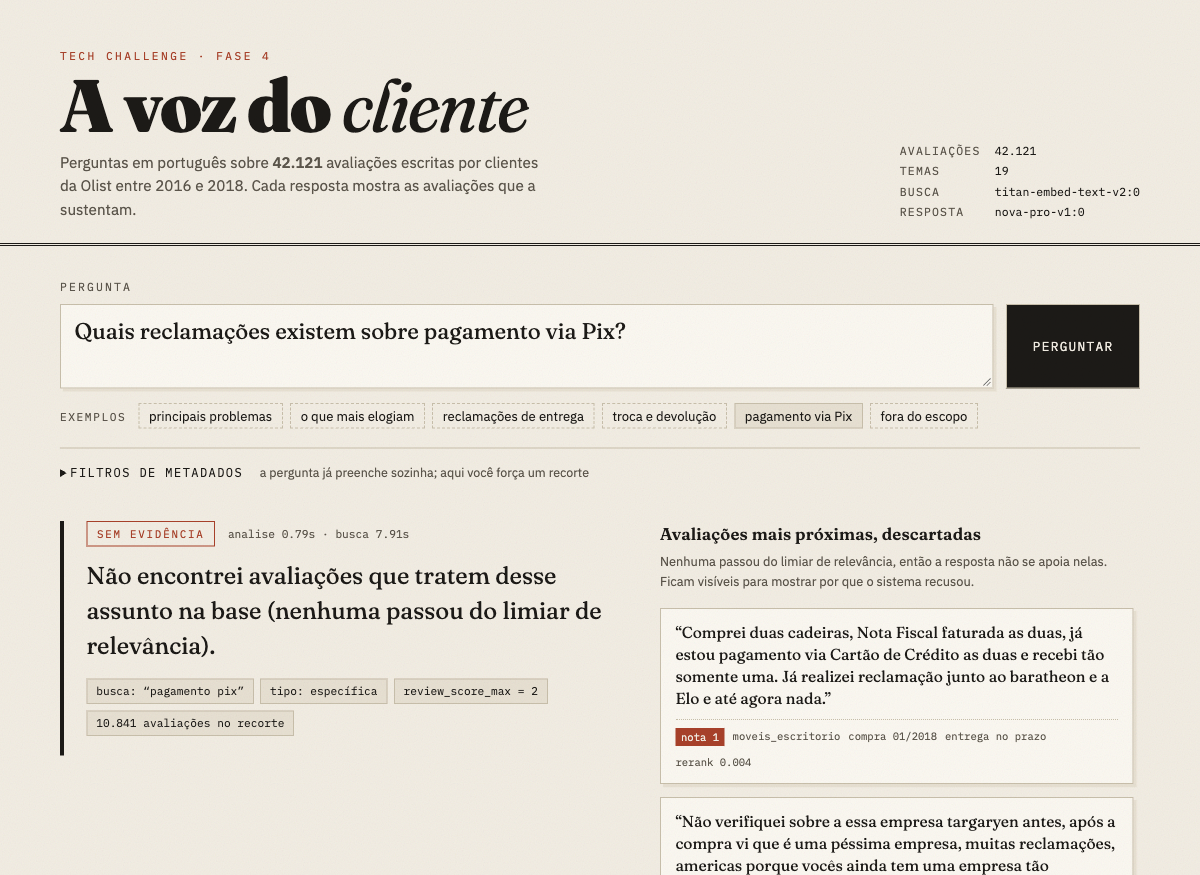
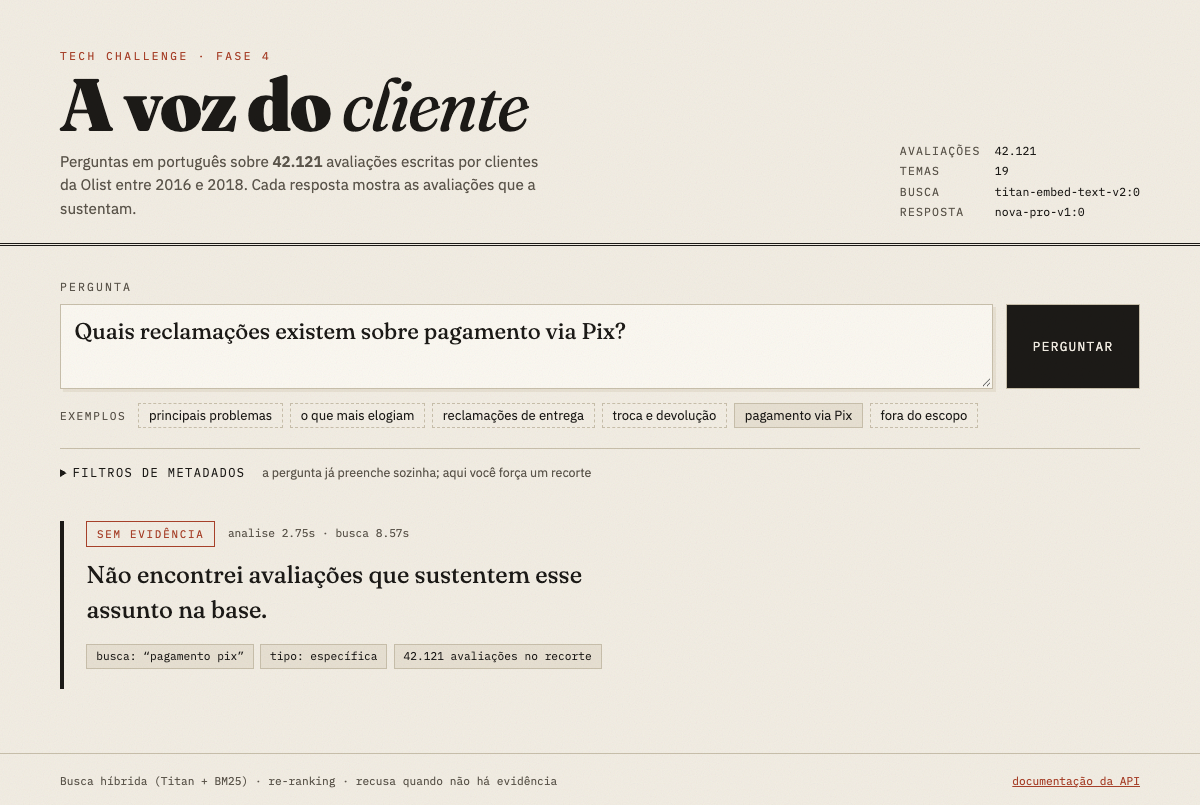
docs: métricas de 17/11 e print da recusa alinhado ao comportamento atual
- tabela de recuperação e tabela de filtros com a execução do pool completo
- o print da recusa mostrava avaliações descartadas, comportamento removido no portão lexical da F6

diff --git a/README.md b/README.md
@@ -277,11 +277,11 @@ O sistema tem quatro formas de recusar, em vez de inventar:
 | **sem evidência** | zero menções explícitas, ou nenhum apoio semântico suficiente | "reclamações sobre pagamento via Pix" (o Pix é de 2020; a base termina em 2018) |
 | **evidência insuficiente** | 1–3 menções, comparação entre recortes, assunto não modelado ou síntese sem evidência citável | "o que os clientes acham dos drones?" (3 avaliações citam drone) |
 
-![Recusa com as avaliações próximas marcadas como descartadas](docs/imagens/demo_recusa.png)
+![Recusa por falta de evidência: sem apoio na base, o sistema não devolve avaliação nenhuma](docs/imagens/demo_recusa.png)
 
 **O limiar foi calibrado, não escolhido a dedo.** Um conjunto separado (`eval/calibracao.jsonl`), com 20 perguntas que têm resposta na base e 20 que não têm, sem repetir as 44 perguntas da suíte de regressão, produziu a curva em `docs/imagens/curva_limiar.png`. O ponto escolhido (**0,39** na nota do re-ranker) fica no centro do platô de melhor F1: **F1 da recusa 0,95**, recall da recusa 1,00 e 10% de falsa recusa. Ele é usado somente como backstop semântico no **top-1 da pergunta**; nunca serve para contar quantos documentos tratam do assunto. Trocar o re-ranker obriga a recalibrar, porque a escala do score é outra.
 
-Um detalhe que a avaliação revelou: **ordenar e decidir são tarefas diferentes**. O ranking fica melhor usando a pergunta original (precisão@8 de 0,951 contra 0,853), mas a decisão de ter ou não evidência fica melhor comparando as avaliações com a **busca reescrita**, que contém só o assunto. O pipeline usa cada uma onde é melhor.
+Um detalhe que a avaliação revelou: **ordenar e decidir são tarefas diferentes**. O ranking fica melhor usando a pergunta original (precisão@8 de 0,951 contra 0,896), mas a decisão de ter ou não evidência fica melhor comparando as avaliações com a **busca reescrita**, que contém só o assunto. O pipeline usa cada uma onde é melhor.
 
 ## 8. Metadados: o desafio adicional
 
@@ -289,12 +289,12 @@ Os filtros cobrem os cinco grupos pedidos: **nota**, **período da compra**, **i
 
 **Por que eles melhoram a recuperação.** Cada pergunta com recorte foi executada com e sem o filtro (`src/eval/eval_filtros.py`):
 
-| | Evidências dentro do recorte pedido |
-|---|---|
-| **com filtro** | **100%** |
-| sem filtro | 16,7% |
+| | Evidências dentro do recorte pedido | Precisão@8 de relevância |
+|---|---|---|
+| **com filtro** | **100%** | **0,958** |
+| sem filtro | 16,7% | 0,562 |
 
-Em três das seis perguntas, **nenhuma** das 8 avaliações devolvidas sem filtro pertencia ao recorte: a busca encontrava reclamações parecidas, mas de outra categoria, nota ou faixa de valor. Uma resposta montada com elas falaria de outro grupo de clientes. A precisão de relevância com filtro é de 0,958 no conjunto de rótulos de relevância versionado.
+Em três das seis perguntas, **nenhuma** das 8 avaliações devolvidas sem filtro pertencia ao recorte: a busca encontrava reclamações parecidas, mas de outra categoria, nota ou faixa de valor. Uma resposta montada com elas falaria de outro grupo de clientes. Com o pool de relevância inteiramente rotulado, as 8 evidências de cada pergunta têm rótulo nos dois braços, e a precisão cai de **0,958** para **0,562** quando o filtro é desligado.
 
 **Dois achados do cruzamento entre texto e metadados** (`notebooks/03_metadados.ipynb`):
 
@@ -305,19 +305,21 @@ Em três das seis perguntas, **nenhuma** das 8 avaliações devolvidas sem filtr
 
 ### 9.1 Recuperação
 
-Pool de 1.117 pares pergunta × avaliação (`eval/julgamentos.csv`), montado com o top-20 de cada recuperador. Há **1.077 pares rotulados** e **40 pendentes**; as métricas ignoram os vazios. O recall é relativo a esse conjunto: uma avaliação relevante que nenhum recuperador encontrou não entra na conta.
+Pool de 1.117 pares pergunta × avaliação (`eval/julgamentos.csv`), montado com o top-20 de cada recuperador. **Os 1.117 pares estão rotulados** (869 relevantes, 248 não), todos revisados por mim. O recall é relativo a esse conjunto: uma avaliação relevante que nenhum recuperador encontrou não entra na conta.
 
 | Configuração | Recall@10 | RecallN@8 | MRR | Precisão@8 | s/pergunta |
 |---|---|---|---|---|---|
-| BM25 | 0,142 | 0,681 | 0,895 | 0,739 | 0,03 |
-| Denso (Titan) | 0,207 | 0,938 | 0,972 | 0,944 | 0,37 |
-| Denso (modelo local) | 0,164 | 0,764 | 0,835 | 0,764 | 0,05 |
-| Híbrida (Titan + BM25) | 0,193 | 0,910 | **1,000** | 0,910 | 0,34 |
-| **Híbrida + re-ranking** | **0,208** | **0,944** | 0,944 | **0,951** | 4,35 |
+| BM25 | 0,138 | 0,681 | 0,895 | 0,739 | 0,02 |
+| Denso (Titan) | 0,201 | 0,938 | 0,972 | 0,944 | 0,35 |
+| Denso (modelo local) | 0,159 | 0,764 | 0,835 | 0,764 | 0,05 |
+| Híbrida (Titan + BM25) | 0,188 | 0,910 | **1,000** | 0,910 | 0,32 |
+| **Híbrida + re-ranking** | **0,203** | **0,944** | 0,944 | **0,951** | 1,60 |
+
+Execução de **17/11/2026** (`eval/results/2026-11-17_recuperacao.json`), com o pool inteiramente rotulado. A coluna de tempo depende da máquina e do cache do re-ranker; serve para comparar as configurações entre si, não como medida absoluta.
 
 `RecallN@8` é o recall com teto em `min(k, relevantes)`: várias perguntas têm 40 ou mais avaliações relevantes, e nenhum top-8 chegaria a 20% de recall comum, mesmo perfeito.
 
-O **Titan ganhou do modelo local** em todas as métricas, o que justificou usá-lo como embedding principal. O re-ranking entrega a melhor precisão, ao custo de 4 segundos por pergunta.
+O **Titan ganhou do modelo local** em todas as métricas, o que justificou usá-lo como embedding principal. O re-ranking entrega a melhor precisão, ao custo de ser uma ordem de grandeza mais lento que a busca sozinha.
 
 ### 9.2 Decisão de responder ou recusar
 

diff --git a/docs/dicionario_dados.md b/docs/dicionario_dados.md
@@ -61,5 +61,5 @@ Quantidades de cada etapa da preparação, usadas no README e nos notebooks.
 |---|---|
 | `golden_set.jsonl` | 44 perguntas com o comportamento esperado de cada uma. Suíte de regressão usada durante o desenvolvimento; não é um holdout independente |
 | `calibracao.jsonl` | 40 perguntas (20 com evidência, 20 sem) usadas para escolher o limiar de recusa |
-| `julgamentos.csv` | Pool de 1.117 pares pergunta × avaliação: 1.077 rotulados como relevantes ou não e 40 pendentes |
+| `julgamentos.csv` | Pool de 1.117 pares pergunta × avaliação, todos rotulados como relevantes ou não (869 e 248) |
 | `results/` | Resultados datados de cada medição e o catálogo de temas |
